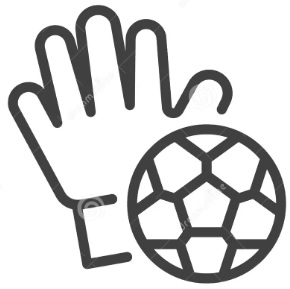
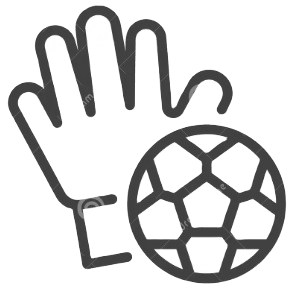
icone melhor goleiro

diff --git a/Ui.CopaFMPOBH/src/app/gerenciar-partida/partida/historico-eventos/historico-eventos.component.html b/Ui.CopaFMPOBH/src/app/gerenciar-partida/partida/historico-eventos/historico-eventos.component.html
@@ -26,8 +26,8 @@
                             style='font-size:15px;color:red'></i></div>
                     <div *ngIf="evento.descricaoEvento == 'MelhorJogador'" class="goal"><i class='far fa-star fa-solid'
                             style='font-size:15px;color:#daa520'></i></div>
-                    <div *ngIf="evento.descricaoEvento == 'MelhorGoleiro'" class="goal"><i class='far fa-mitten fa-solid'
-                            style='font-size:15px;color:black'></i></div>
+                    <div *ngIf="evento.descricaoEvento == 'MelhorGoleiro'" class="goal"><img src="assets/images/CopaFMPOBH/Site/mg.jpg" width="15" height="15"
+                        alt="club-image"></div>
                 </td>
                 <td class="d-sm-none d-md-block"><button class="btn-link" style="height: auto;"
                         (click)="abrirModalDeletar(evento.id)">

diff --git a/Ui.CopaFMPOBH/src/app/gerenciar-partida/partida/eventos/eventos.component.html b/Ui.CopaFMPOBH/src/app/gerenciar-partida/partida/eventos/eventos.component.html
@@ -39,7 +39,7 @@
                 </div>
                 <div class="col-xs-6" [ngClass]="{'padding-item': time == 'casa'}">
                     <span class="item" style="padding-top: 5px;" (click)="melhorGoleiro(jogador!.id)">
-                        <span class="logo"><i class='far fa-mitten fa-solid' style='font-size:60px;color:black'></i></span>
+                        <span class="logo"><img src="assets/images/CopaFMPOBH/Site/mg.jpg" width="20" height="20" alt="club-image"></span>
                         <span class="icone">Goleiro</span>
                     </span>
                 </div>

diff --git a/Ui.CopaFMPOBH/src/app/inicio/item-partida/item-partida.component.html b/Ui.CopaFMPOBH/src/app/inicio/item-partida/item-partida.component.html
@@ -117,7 +117,8 @@
                         </ng-container>
                         <ng-container *ngIf="evento.key === 'MelhorGoleiro'">
                           <ng-container *ngFor="let _ of [].constructor(evento.value)">
-                            <i class='far fa-mitten fa-solid' style='font-size:15px;color:black'></i>
+                            <img src="assets/images/CopaFMPOBH/Site/mg.jpg" width="20" height="20"
+                                 alt="club-image">
                           </ng-container>
                         </ng-container>
                       </ng-container>

diff --git a/Ui.CopaFMPOBH/src/services/partida.service.ts b/Ui.CopaFMPOBH/src/services/partida.service.ts
@@ -11,8 +11,8 @@ import { Sumula } from 'src/models/sumula';
   providedIn: 'root'
 })
 export class PartidaService {
-  private apiUrl = 'https://api.copafmpobh.com.br/Partida';
-  //private apiUrl = 'http://localhost:5097/Partida';
+  //private apiUrl = 'https://api.copafmpobh.com.br/Partida';
+  private apiUrl = 'http://localhost:5097/Partida';
 
   httpOptions = {
     headers: new HttpHeaders({

diff --git a/Application/Services/Partida/PartidaService.cs b/Application/Services/Partida/PartidaService.cs
@@ -68,11 +68,10 @@ namespace Application.Services.Partida
             var eventos = await BuscarEventosPartidas(partidas.Select(x => x.Id).ToList());
 
             var partidasHome = new PartidasHomeViewModel();
-            string hoje = DateTime.Today.ToString("dd-MM");
 
             partidasHome.PartidasAoVivo = _mapper.Map<List<PartidaViewModel>>(partidas.Where(x => x.EmAndamento));
             partidasHome.ProximaPartida = _mapper.Map<PartidaViewModel>(partidas.FirstOrDefault(x => !x.EmAndamento && !x.PartidaFinalizada));
-            partidasHome.PartidasEncerradas = _mapper.Map<List<PartidaViewModel>>(partidas.Where(x => x.PartidaFinalizada && x.DataPartida == hoje));
+            partidasHome.PartidasEncerradas = _mapper.Map<List<PartidaViewModel>>(partidas.Where(x => x.PartidaFinalizada).OrderByDescending(x=>x.DataHoraPartida).Take(4));
 
             foreach (var partida in partidasHome.PartidasAoVivo)
                 partida.Eventos = eventos.Where(x => x.IdPartida == partida.IdPartida).ToList();
